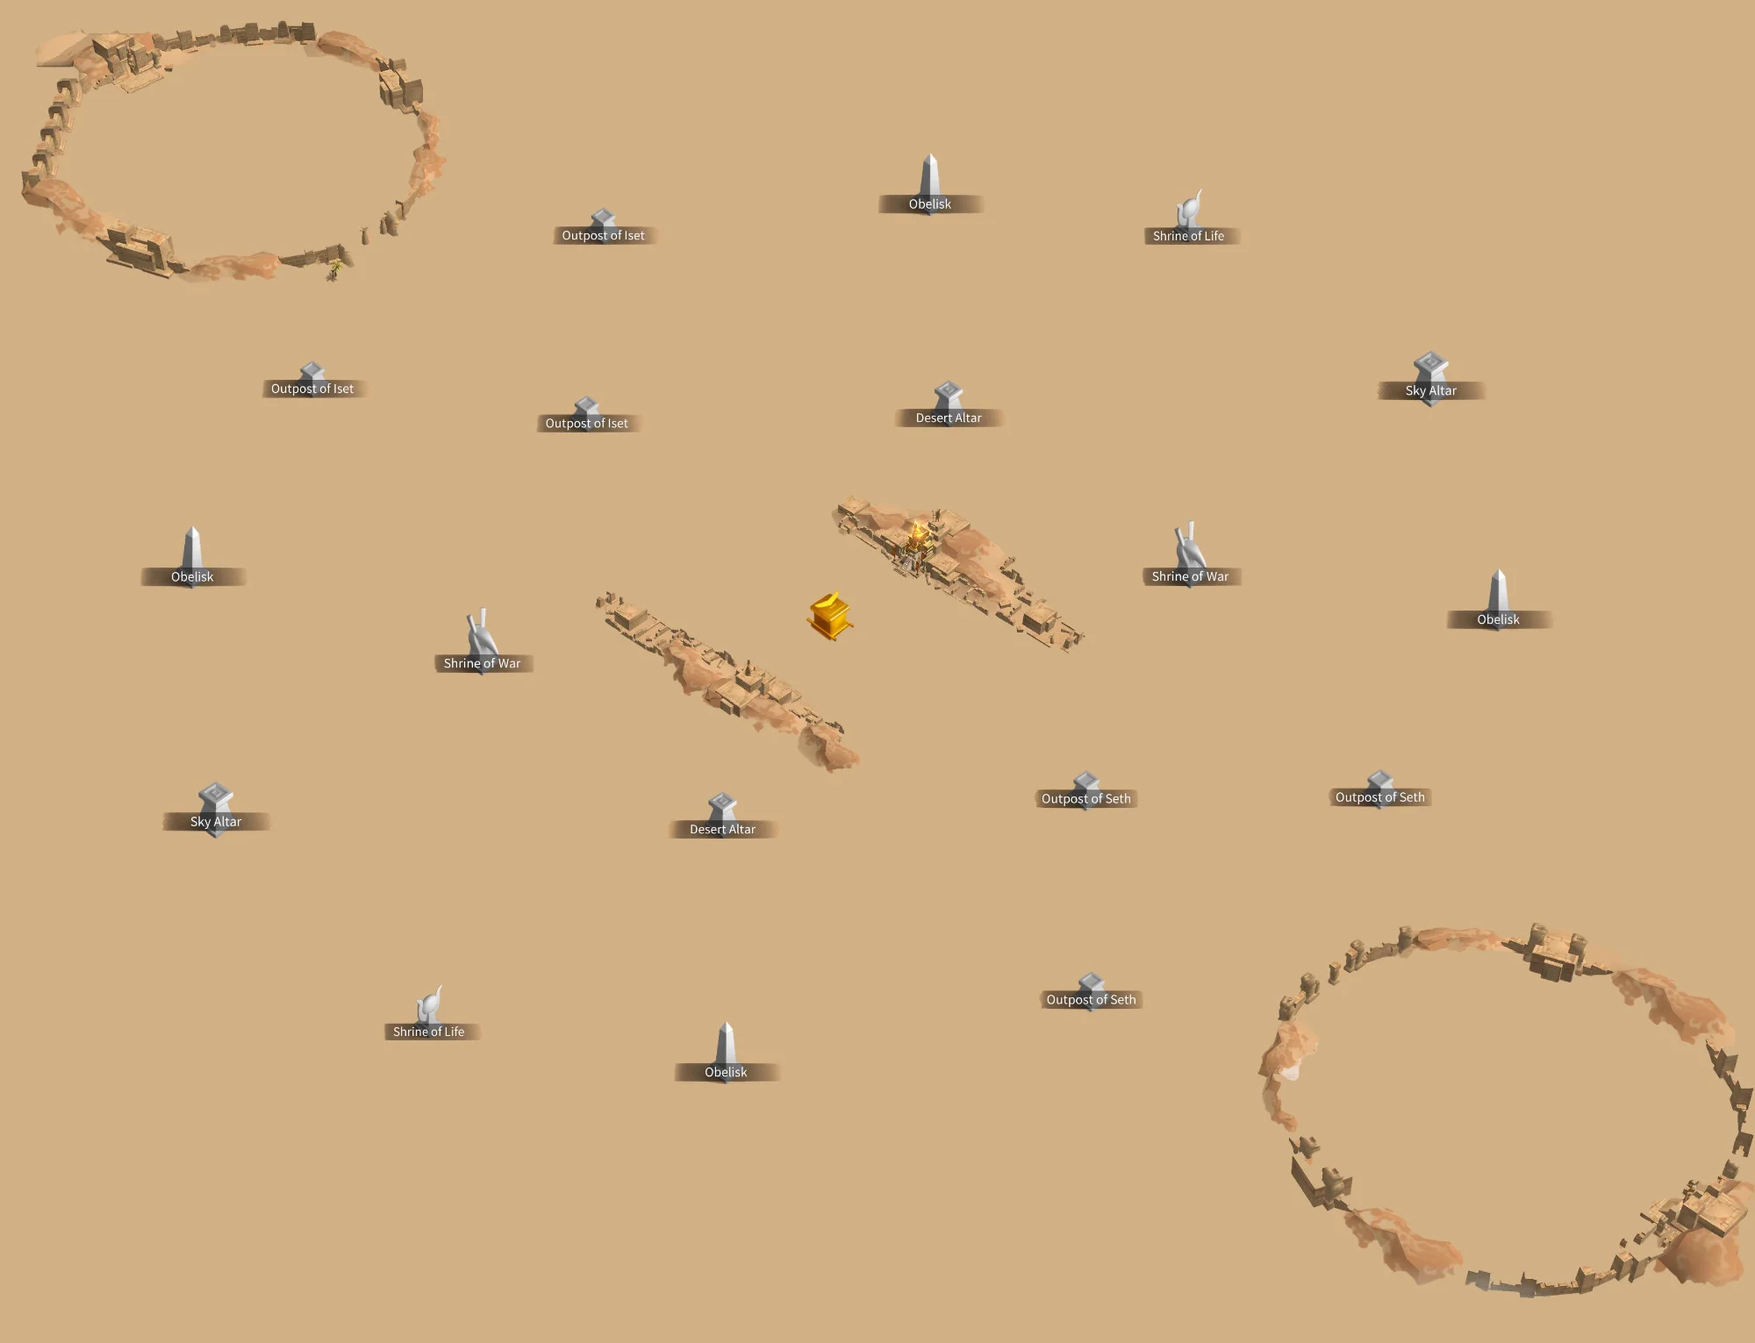
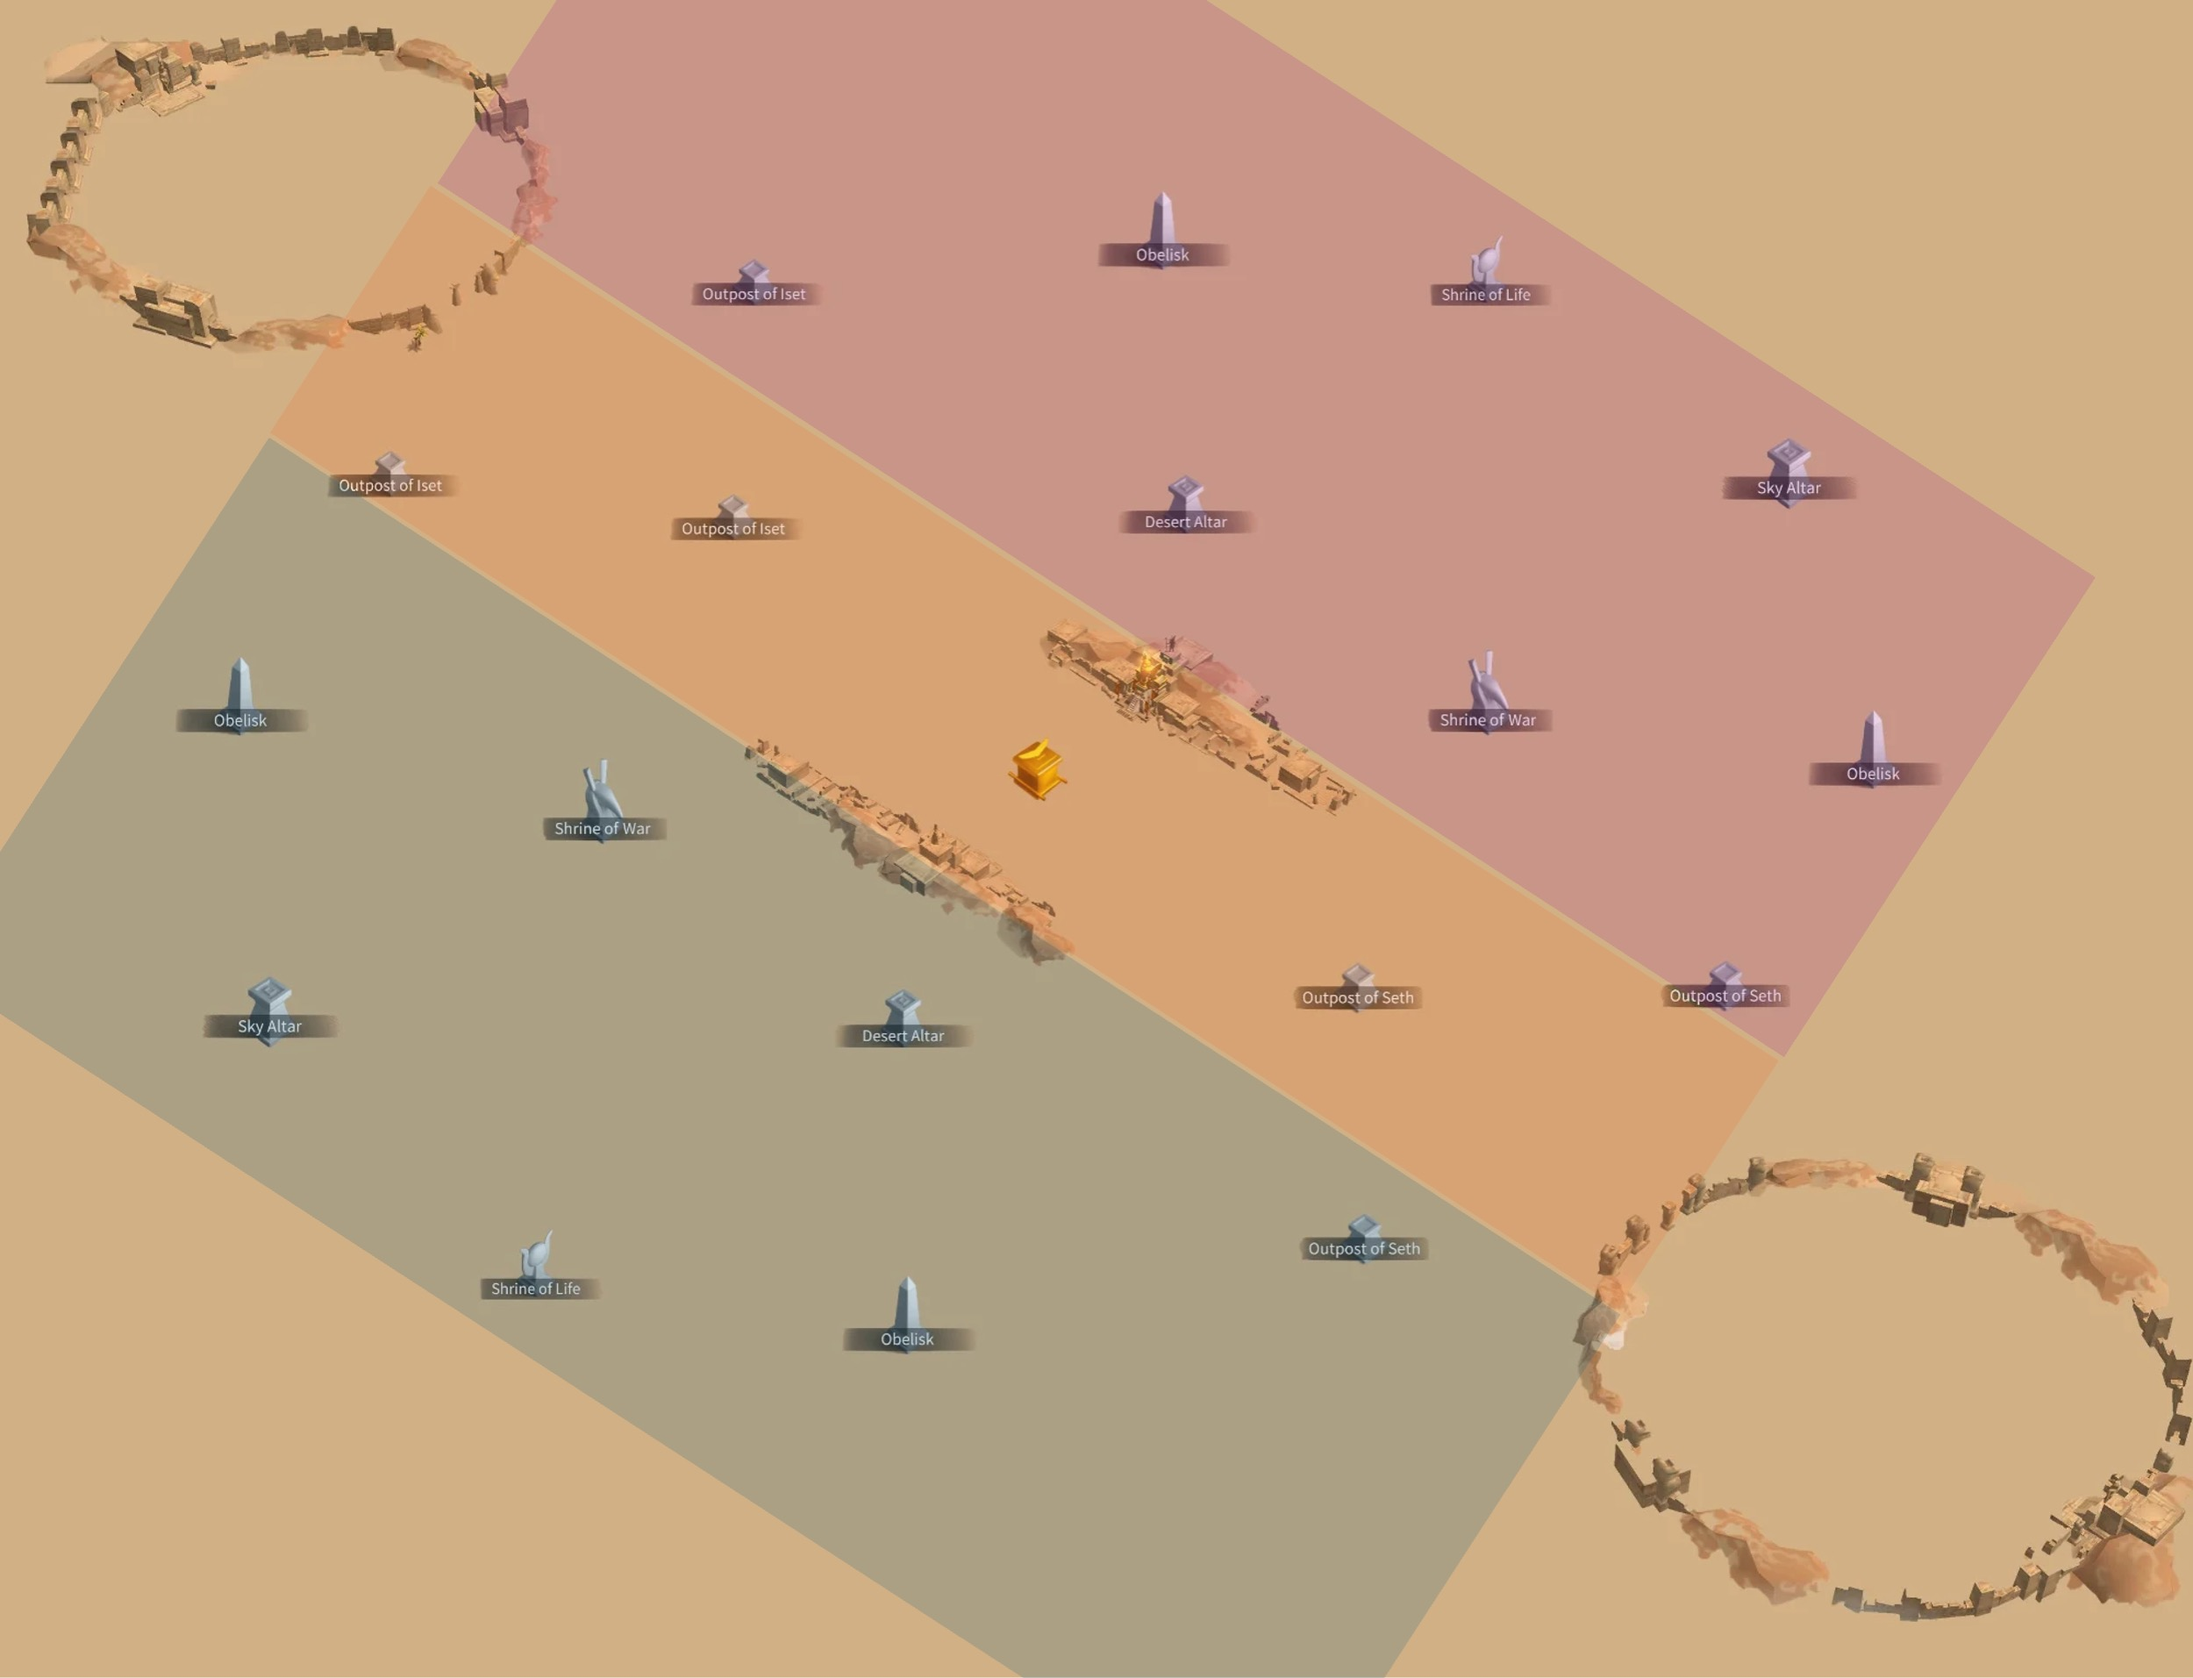
Update map component for new map image with built-in zone overlays

diff --git a/apps/web/components/AOOInteractiveMap.tsx b/apps/web/components/AOOInteractiveMap.tsx
@@ -26,42 +26,42 @@ interface Props {
   isEditor?: boolean;
 }
 
-// All buildings on the map with positions (percentages)
+// All buildings on the map with positions (percentages based on new map)
 const buildings: Building[] = [
   // Obelisks
-  { id: 'obelisk-1', name: 'Obelisk 1', shortName: 'Ob1', x: 53, y: 15 },
-  { id: 'obelisk-2', name: 'Obelisk 2', shortName: 'Ob2', x: 10, y: 43 },
-  { id: 'obelisk-3', name: 'Obelisk 3', shortName: 'Ob3', x: 87, y: 43 },
-  { id: 'obelisk-4', name: 'Obelisk 4', shortName: 'Ob4', x: 41, y: 77 },
+  { id: 'obelisk-1', name: 'Obelisk (Upper)', shortName: 'Ob1', x: 50, y: 12 },
+  { id: 'obelisk-2', name: 'Obelisk (Left)', shortName: 'Ob2', x: 10, y: 40 },
+  { id: 'obelisk-3', name: 'Obelisk (Right)', shortName: 'Ob3', x: 90, y: 40 },
+  { id: 'obelisk-4', name: 'Obelisk (Lower)', shortName: 'Ob4', x: 42, y: 78 },
   
-  // Outposts of Iset (our side)
-  { id: 'iset-1', name: 'Outpost of Iset 1', shortName: 'Iset1', x: 35, y: 18 },
-  { id: 'iset-2', name: 'Outpost of Iset 2', shortName: 'Iset2', x: 17, y: 26 },
-  { id: 'iset-3', name: 'Outpost of Iset 3', shortName: 'Iset3', x: 33, y: 30 },
+  // Outposts of Iset (your side - upper left)
+  { id: 'iset-1', name: 'Outpost of Iset 1', shortName: 'Iset1', x: 35, y: 15 },
+  { id: 'iset-2', name: 'Outpost of Iset 2', shortName: 'Iset2', x: 15, y: 24 },
+  { id: 'iset-3', name: 'Outpost of Iset 3', shortName: 'Iset3', x: 35, y: 28 },
   
-  // Outposts of Seth (enemy side)
-  { id: 'seth-1', name: 'Outpost of Seth 1', shortName: 'Seth1', x: 62, y: 60 },
-  { id: 'seth-2', name: 'Outpost of Seth 2', shortName: 'Seth2', x: 79, y: 60 },
-  { id: 'seth-3', name: 'Outpost of Seth 3', shortName: 'Seth3', x: 63, y: 72 },
+  // Outposts of Seth (enemy side - lower right)
+  { id: 'seth-1', name: 'Outpost of Seth 1', shortName: 'Seth1', x: 65, y: 60 },
+  { id: 'seth-2', name: 'Outpost of Seth 2', shortName: 'Seth2', x: 85, y: 60 },
+  { id: 'seth-3', name: 'Outpost of Seth 3', shortName: 'Seth3', x: 65, y: 73 },
   
   // Shrines of War
-  { id: 'war-1', name: 'Shrine of War 1', shortName: 'War1', x: 30, y: 48 },
-  { id: 'war-2', name: 'Shrine of War 2', shortName: 'War2', x: 70, y: 42 },
+  { id: 'war-1', name: 'Shrine of War', shortName: 'War1', x: 28, y: 46 },
+  { id: 'war-2', name: 'Shrine of War', shortName: 'War2', x: 72, y: 38 },
   
   // Shrines of Life
-  { id: 'life-1', name: 'Shrine of Life 1', shortName: 'Life1', x: 70, y: 16 },
-  { id: 'life-2', name: 'Shrine of Life 2', shortName: 'Life2', x: 22, y: 72 },
+  { id: 'life-1', name: 'Shrine of Life', shortName: 'Life1', x: 72, y: 18 },
+  { id: 'life-2', name: 'Shrine of Life', shortName: 'Life2', x: 22, y: 73 },
   
   // Desert Altars
-  { id: 'desert-1', name: 'Desert Altar 1', shortName: 'Des1', x: 55, y: 31 },
-  { id: 'desert-2', name: 'Desert Altar 2', shortName: 'Des2', x: 42, y: 61 },
+  { id: 'desert-1', name: 'Desert Altar', shortName: 'Des1', x: 55, y: 28 },
+  { id: 'desert-2', name: 'Desert Altar', shortName: 'Des2', x: 42, y: 60 },
   
   // Sky Altars
-  { id: 'sky-1', name: 'Sky Altar 1', shortName: 'Sky1', x: 85, y: 27 },
-  { id: 'sky-2', name: 'Sky Altar 2', shortName: 'Sky2', x: 12, y: 57 },
+  { id: 'sky-1', name: 'Sky Altar', shortName: 'Sky1', x: 88, y: 25 },
+  { id: 'sky-2', name: 'Sky Altar', shortName: 'Sky2', x: 10, y: 58 },
   
-  // Ark
-  { id: 'ark', name: 'Ark', shortName: 'Ark', x: 48, y: 45 },
+  // Ark (center)
+  { id: 'ark', name: 'Ark', shortName: 'Ark', x: 48, y: 43 },
 ];
 
 // Zone colors - colorblind friendly
@@ -312,61 +312,12 @@ export default function AOOInteractiveMap({ initialAssignments, onSave, isEditor
                   style={{ opacity: isDark ? 0.8 : 1 }}
                 />
 
-                {/* Zone Overlays - Simple rectangular regions */}
-                {/* Zone 1 (Blue) - Left/Lower side */}
-                <div
-                  className="absolute border-2 border-blue-500 bg-blue-500/15 rounded-lg"
-                  style={{
-                    left: '2%',
-                    top: '15%',
-                    width: '30%',
-                    height: '70%',
-                    zIndex: 5,
-                  }}
-                />
-
-                {/* Zone 2 (Orange) - Center/Ark area */}
-                <div
-                  className="absolute border-2 border-orange-500 bg-orange-500/15 rounded-lg"
-                  style={{
-                    left: '32%',
-                    top: '25%',
-                    width: '36%',
-                    height: '50%',
-                    zIndex: 5,
-                  }}
-                />
-
-                {/* Zone 3 (Purple) - Right/Upper side */}
-                <div
-                  className="absolute border-2 border-purple-500 bg-purple-500/15 rounded-lg"
-                  style={{
-                    left: '68%',
-                    top: '10%',
-                    width: '30%',
-                    height: '55%',
-                    zIndex: 5,
-                  }}
-                />
-
-                {/* Enemy Territory (Red dashed) - Lower right */}
-                <div
-                  className="absolute border-2 border-dashed border-red-500 bg-red-500/10 rounded-lg"
-                  style={{
-                    left: '60%',
-                    top: '65%',
-                    width: '38%',
-                    height: '33%',
-                    zIndex: 4,
-                  }}
-                />
-
-                {/* START Marker - Upper Left (Iset/Blue) */}
+                {/* START Marker - Upper Left spawn circle */}
                 <div
                   className="absolute flex items-center gap-1 px-3 py-1.5 rounded-lg bg-emerald-600 text-white font-bold text-sm shadow-lg border-2 border-emerald-400"
                   style={{
-                    left: '18%',
-                    top: '8%',
+                    left: '12%',
+                    top: '6%',
                     transform: 'translate(-50%, -50%)',
                     zIndex: 20,
                   }}
@@ -375,12 +326,12 @@ export default function AOOInteractiveMap({ initialAssignments, onSave, isEditor
                   <span>START</span>
                 </div>
 
-                {/* ENEMY Marker - Lower Right (Seth/Red) */}
+                {/* ENEMY Marker - Lower Right spawn circle */}
                 <div
                   className="absolute flex items-center gap-1 px-3 py-1.5 rounded-lg bg-red-600 text-white font-bold text-sm shadow-lg border-2 border-red-400"
                   style={{
-                    left: '82%',
-                    top: '92%',
+                    left: '88%',
+                    top: '94%',
                     transform: 'translate(-50%, -50%)',
                     zIndex: 20,
                   }}
@@ -389,55 +340,20 @@ export default function AOOInteractiveMap({ initialAssignments, onSave, isEditor
                   <span>ENEMY</span>
                 </div>
 
-                {/* Zone Labels */}
+                {/* RUSH Labels - Your two obelisks to capture first */}
+                {/* Obelisk in upper area (top-center of map) */}
                 <div
-                  className="absolute px-2 py-1 rounded bg-blue-600 text-white text-xs font-bold shadow-lg"
-                  style={{
-                    left: '4%',
-                    top: '50%',
-                    transform: 'translateY(-50%)',
-                    zIndex: 15,
-                  }}
+                  className="absolute px-2 py-1 rounded bg-yellow-500 text-black text-xs font-bold shadow-lg border border-yellow-600"
+                  style={{ left: '50%', top: '8%', transform: 'translate(-50%, -50%)', zIndex: 25 }}
                 >
-                  ZONE 1
+                  🎯 RUSH
                 </div>
-
+                {/* Obelisk on left side */}
                 <div
-                  className="absolute px-2 py-1 rounded bg-orange-500 text-white text-xs font-bold shadow-lg"
-                  style={{
-                    left: '50%',
-                    top: '50%',
-                    transform: 'translate(-50%, -50%)',
-                    zIndex: 15,
-                  }}
+                  className="absolute px-2 py-1 rounded bg-yellow-500 text-black text-xs font-bold shadow-lg border border-yellow-600"
+                  style={{ left: '5%', top: '40%', transform: 'translate(-50%, -50%)', zIndex: 25 }}
                 >
-                  ZONE 2
-                </div>
-
-                <div
-                  className="absolute px-2 py-1 rounded bg-purple-600 text-white text-xs font-bold shadow-lg"
-                  style={{
-                    left: '94%',
-                    top: '35%',
-                    transform: 'translateY(-50%)',
-                    zIndex: 15,
-                  }}
-                >
-                  ZONE 3
-                </div>
-
-                {/* RUSH Labels - Obelisk 1 (top center) and Obelisk 2 (left) */}
-                <div
-                  className="absolute px-1.5 py-0.5 rounded bg-yellow-500 text-black text-xs font-bold shadow"
-                  style={{ left: '53%', top: '20%', transform: 'translate(-50%, -50%)', zIndex: 25 }}
-                >
-                  RUSH
-                </div>
-                <div
-                  className="absolute px-1.5 py-0.5 rounded bg-yellow-500 text-black text-xs font-bold shadow"
-                  style={{ left: '10%', top: '50%', transform: 'translate(-50%, -50%)', zIndex: 25 }}
-                >
-                  RUSH
+                  🎯 RUSH
                 </div>
 
                 {/* Building Markers */}
@@ -501,24 +417,20 @@ export default function AOOInteractiveMap({ initialAssignments, onSave, isEditor
                 <span className={theme.textMuted}>Enemy spawn</span>
               </div>
               <div className="flex items-center gap-1.5">
-                <span className="px-2 py-0.5 rounded bg-yellow-500 text-black font-bold">RUSH</span>
-                <span className={theme.textMuted}>Phase 1 priority</span>
+                <span className="px-2 py-0.5 rounded bg-yellow-500 text-black font-bold">🎯 RUSH</span>
+                <span className={theme.textMuted}>Phase 1 obelisks</span>
               </div>
               <div className="flex items-center gap-1.5">
-                <span className="w-4 h-4 rounded-full bg-blue-600"></span>
-                <span className={theme.textMuted}>Zone 1</span>
+                <span className="w-4 h-4 rounded" style={{ backgroundColor: '#8B9A7D' }}></span>
+                <span className={theme.textMuted}>Lower (Zone 1)</span>
               </div>
               <div className="flex items-center gap-1.5">
-                <span className="w-4 h-4 rounded-full bg-orange-500"></span>
-                <span className={theme.textMuted}>Zone 2</span>
+                <span className="w-4 h-4 rounded" style={{ backgroundColor: '#D4A574' }}></span>
+                <span className={theme.textMuted}>Middle (Zone 2)</span>
               </div>
               <div className="flex items-center gap-1.5">
-                <span className="w-4 h-4 rounded-full bg-purple-600"></span>
-                <span className={theme.textMuted}>Zone 3</span>
-              </div>
-              <div className="flex items-center gap-1.5">
-                <span className="w-4 h-4 rounded border-2 border-dashed border-red-500 bg-red-500/20"></span>
-                <span className={theme.textMuted}>Enemy territory</span>
+                <span className="w-4 h-4 rounded" style={{ backgroundColor: '#C4908A' }}></span>
+                <span className={theme.textMuted}>Upper (Zone 3)</span>
               </div>
             </div>
           </div>
